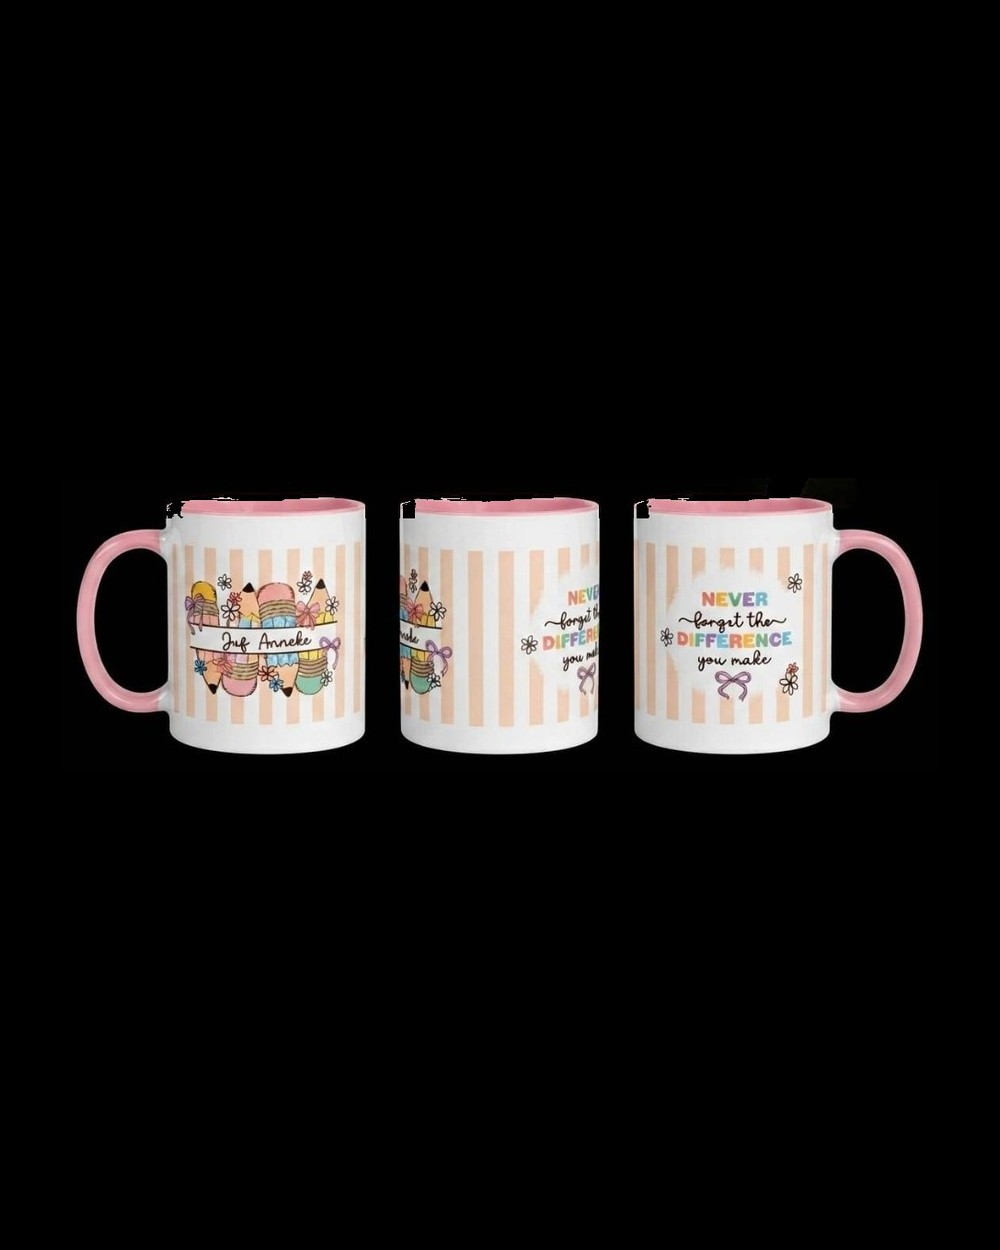
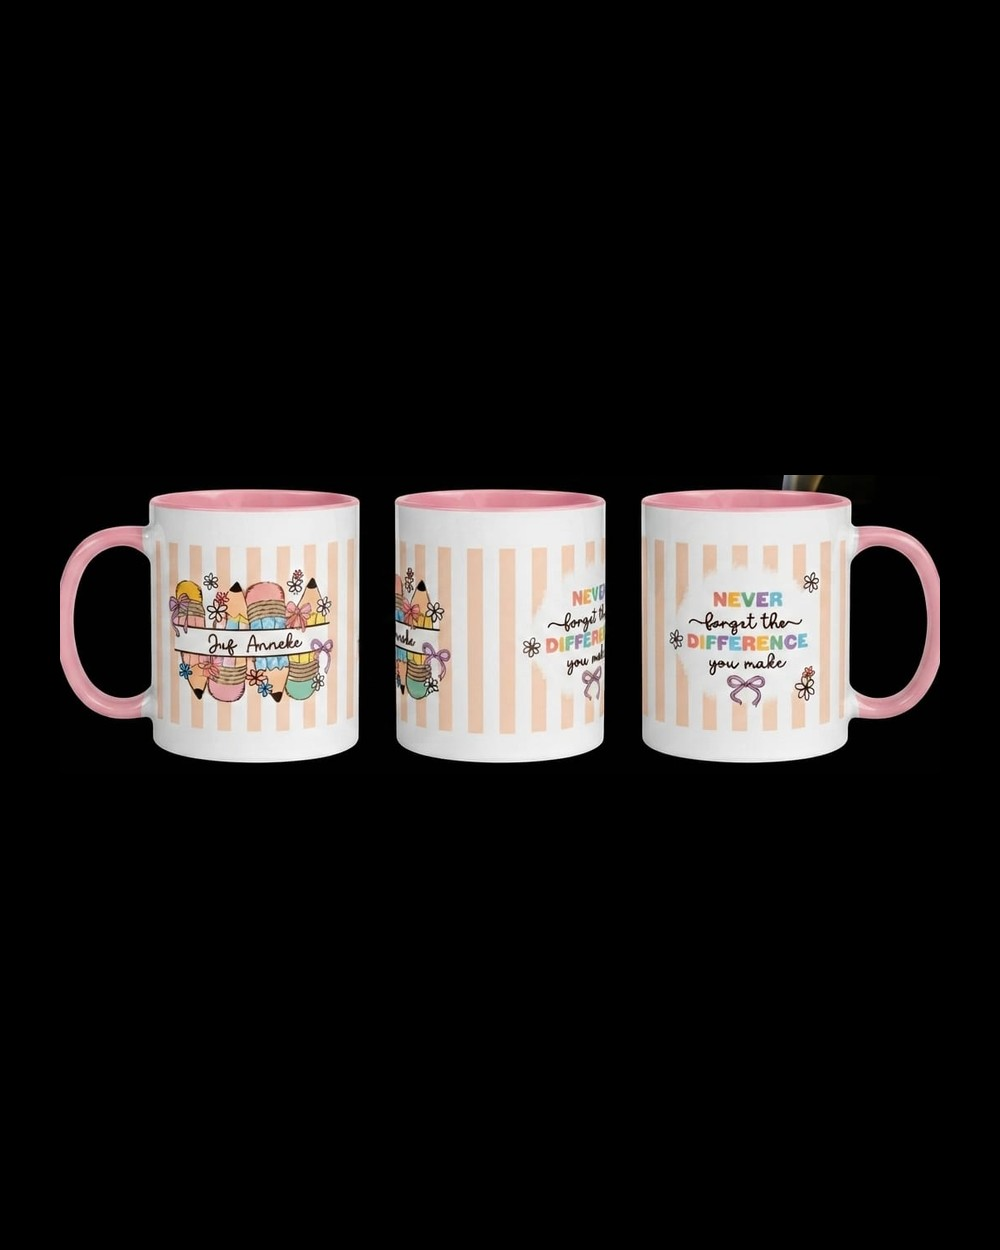
Crop teacher, leopard, and Brother tumbler from WA marketing frames
Process owner-supplied WA sources for Teacher mugs, Leopard print mugs,
and the Brother tumbler. Keeps all three product views in frame on a 4:5
canvas and re-enables the Brother tumbler listing image.

Changed region(s): [[0.062, 0.3744, 0.961, 0.624]]

diff --git a/src/lib/catalogue-more.ts b/src/lib/catalogue-more.ts
@@ -170,7 +170,7 @@ export const MORE_CATEGORIES: Category[] = [
       ["dad-legend-tumbler", "Dad legend tumbler", "dad-legend.jpg"],
       ["pj-klipdrift-tumbler", "Klipdrift tumbler", "pj-klipdrift.jpg"],
       ["milandri-tumbler", "Script tumbler", "milandri.jpg"],
-      ["brother-tumbler", "Brother tumbler", ""],
+      ["brother-tumbler", "Brother tumbler", "brother.jpg"],
     ]),
     ],
   },

diff --git a/scripts/crop-incoming-products.py b/scripts/crop-incoming-products.py
@@ -133,7 +133,12 @@ JOBS = [
     {
         "source": "manzelle-mugs-source.jpg",
         "dest": ROOT / "coffee-mugs" / "manzelle-mugs.jpg",
-        "crop": lambda image: crop_runs(image, y_max=0.68, min_run=100, pad=20),
+        "crop": lambda image: crop_runs(image, y_max=0.65, min_run=80, pad=20),
+    },
+    {
+        "source": "brother-source.jpg",
+        "dest": ROOT / "skinny-tumblers" / "brother.jpg",
+        "crop": lambda image: crop_runs(image, y_max=0.72, min_run=55, ink=16, pad=20),
     },
 ]
 

diff --git a/assets/incoming/README.md b/assets/incoming/README.md
@@ -14,15 +14,6 @@ python3 scripts/normalize-product-images.py
 - `worthy-bow-mugs-source.jpg` — She is Worthy frosted mugs
 - `homosapien-mug-source.jpg` — World's Best Homosapien mug
 - `ac-fitness-bottle-source.jpg` — AC Fitness bottle trio
-
-## Still needed (original WA marketing frames)
-
-Drop these files here to replace the old extracted strips:
-
-| File name | WA code | Product |
-|-----------|---------|---------|
-| `juf-anneke-mugs-source.jpg` | WA0106 | Teacher mugs |
-| `manzelle-mugs-source.jpg` | WA0107 | Leopard print mugs |
-| `*-WA0114-*.jpg` or `brother-source.jpg` | WA0114 | Brother tumbler |
-
-The Brother tumbler currently shows a placeholder because the saved crop only contained the lid strip (158px tall) and cannot be repaired without the original frame.
+- `juf-anneke-mugs-source.jpg` — Teacher mugs (WA0106)
+- `manzelle-mugs-source.jpg` — Leopard print mugs (WA0107)
+- `brother-source.jpg` — Brother tumbler (WA0114)
